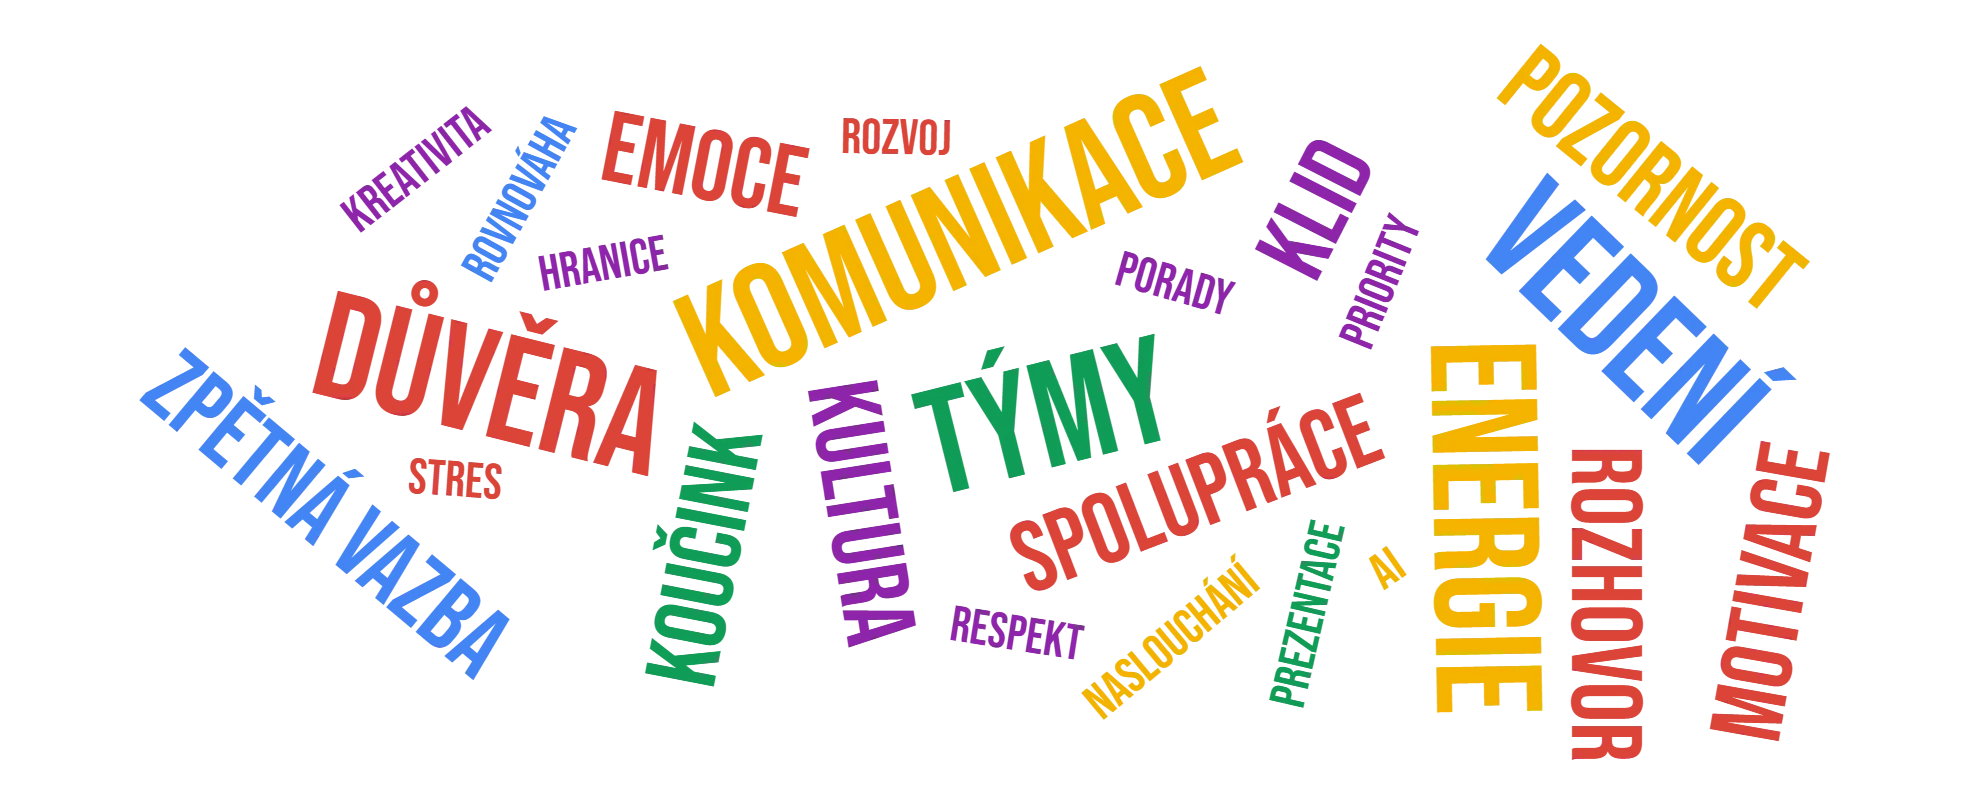
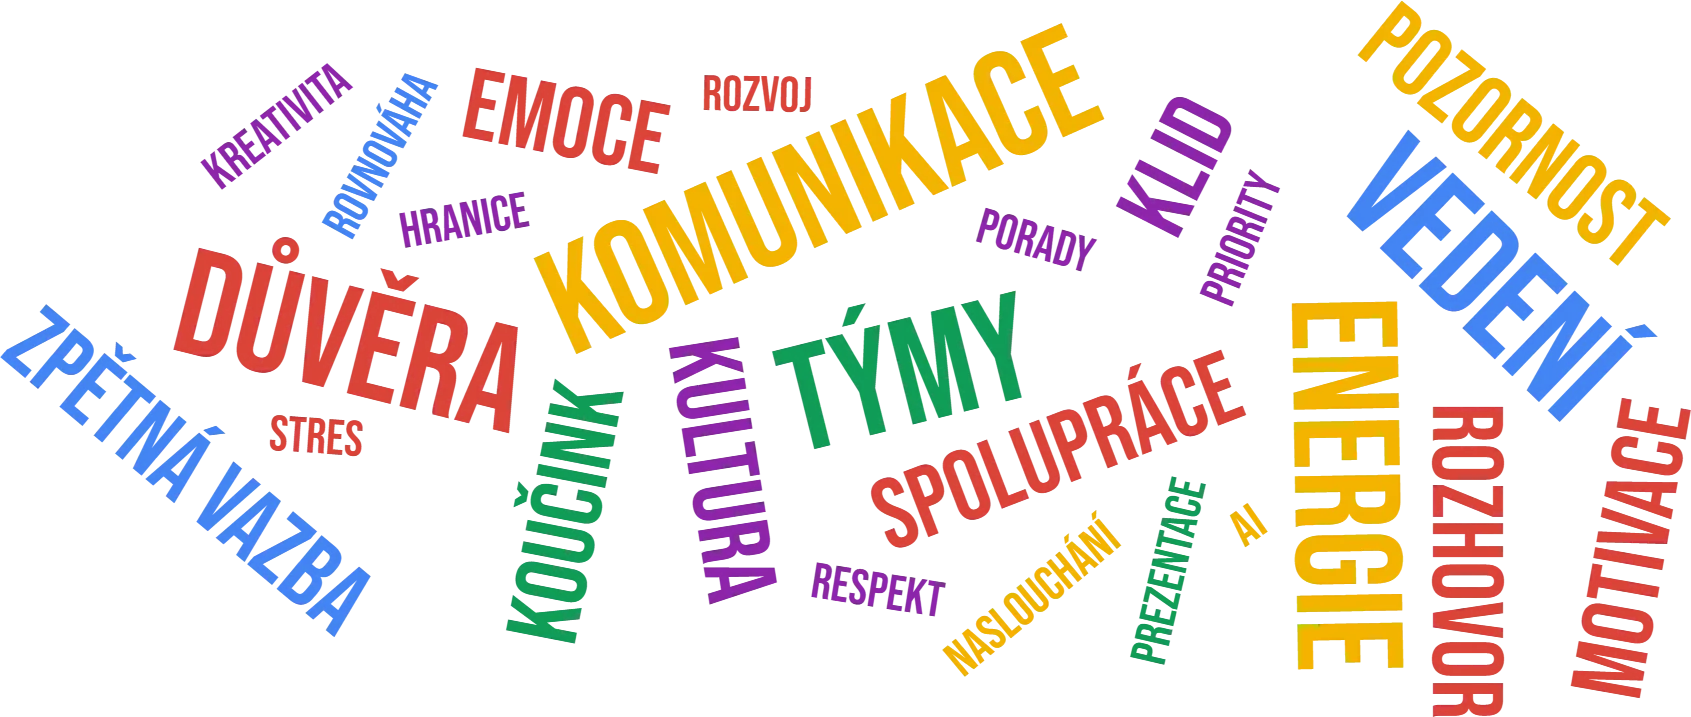
Tréninky: mrak slov nahoře, Forma dodání s fotkou, grafika procesu a symbol technologií
- Odstraněna poznámka o AI u hero fotek (Tréninky, Koučink)
- Průhledný mrak slov místo první rezervace na fotku
- Úvodní text o zkušenostech před kartami témat
- Forma dodání jako samostatná sekce: fotka vlevo, text vpravo
- Příprava jako tok kroků s ikonami a šipkami (bez čísel)
- SVG symbol uprostřed sekce Technologie
- Odstraněny zbývající rezervace na fotky a nepoužité styly

Changed region(s): [[0.0, 0.0, 1.0, 1.0]]

diff --git a/treninky.html b/treninky.html
@@ -32,23 +32,18 @@
       <p class="lead">Pracuji s lidmi a týmy na tom, jak spolu komunikují, spolupracují a zvládají každodenní tlak.</p>
     </div>
   </section>
-  <p class="wrap hero-note">Ilustrační fotografie vytvořená pomocí AI.</p>
 
-  <section class="hero-after">
+  <section class="hero-after" aria-hidden="true">
     <div class="wrap">
-      <figure class="shot">
-        <div class="shot-frame">
-          <span aria-hidden="true">Fotka bude doplněna</span>
-          <img src="assets/img/trenink-1-prezentace.jpg" alt="Aleš Demjan vede trénink před skupinou." width="1600" height="1067" loading="lazy" onerror="this.remove()">
-        </div>
-        <figcaption>Ilustrační fotografie vytvořená pomocí AI.</figcaption>
-      </figure>
+      <img class="cloud-img" src="assets/img/mrak-slov.webp" alt="" width="1691" height="717">
     </div>
   </section>
 
   <section id="temata" class="alt">
     <div class="wrap">
       <h2>Čemu se věnuji</h2>
+      <p>První školení jsem vedl zhruba před 20 lety. Od té doby mám za sebou přes 500 tréninkových dní – od technologických přes soft skills až po procesní. Baví mě všechny, každý má svou energii a smysl. Rád trénink připravuji i vedu před lidmi.</p>
+      <p>Níže jsou oblasti a témata, ve kterých jsem zvyklý pracovat. Kombinovat je lze jakkoli. Nejraději tvořím obsah přímo s účastníky na místě.</p>
       <p class="hint">Najeďte na kartu myší nebo na ni klepněte a uvidíte, co téma obsahuje.</p>
 
       <!-- TEMATA:START – obsah se generuje z data/temata.json (node tools/build-temata.mjs), ručně neupravovat -->
@@ -453,13 +448,7 @@
     </div>
   </section>
 
-  <section aria-hidden="true">
-    <div class="wrap">
-      <img class="cloud-img" src="assets/img/mrak-slov.webp" alt="" width="1976" height="800" loading="lazy">
-    </div>
-  </section>
-
-  <section id="formy" class="alt">
+  <section id="formy">
     <div class="wrap">
       <h2>Jak může spolupráce vypadat</h2>
       <p>Rozsah i obsah volím podle toho, co potřebujete. Nejde o hotový balíček, ale o trénink postavený na míru.</p>
@@ -486,20 +475,19 @@
           <p>Postupná práce se skupinou nebo týmem. Může proběhnout vcelku, nebo ve více samostatných termínech s odstupem, aby si lidé mezi nimi mohli věci vyzkoušet v praxi a pak se k nim vrátit.</p>
         </li>
       </ul>
+    </div>
+  </section>
 
-      <h2 class="note-title">Forma dodání</h2>
-      <div class="note">
+  <section id="dodani" class="alt">
+    <div class="wrap split">
+      <figure class="split-img">
+        <img src="assets/img/trenink-online.jpg" alt="Aleš Demjan vede online trénink od svého stolu." width="1200" height="675" loading="lazy">
+      </figure>
+      <div>
+        <h2>Forma dodání</h2>
         <h3>Prezenčně nebo online</h3>
         <p>Obě varianty jsou možné. Měkká témata, jako je komunikace, emoce, asertivita nebo neverbální komunikace, doporučuji naživo v učebně, protože online se řeč těla ztrácí. Praktická témata, například AI, Office nebo time management, fungují online dobře.</p>
       </div>
-
-      <figure class="shot wide formats-shot">
-        <div class="shot-frame">
-          <span aria-hidden="true">Fotka bude doplněna</span>
-          <img src="assets/img/trenink-2-poznamky.jpg" alt="Účastníci tréninku si zapisují poznámky." width="1600" height="1067" loading="lazy" onerror="this.remove()">
-        </div>
-        <figcaption>Ilustrační fotografie vytvořená pomocí AI.</figcaption>
-      </figure>
     </div>
   </section>
 
@@ -507,28 +495,33 @@
     <div class="wrap">
       <h2>Příprava</h2>
       <p>Každému tréninku předchází rozhovor, ve kterém si vše ujasníme:</p>
-      <div class="steps five">
-        <div class="step">
+      <ol class="flow">
+        <li class="flow-step">
+          <span class="flow-icon" aria-hidden="true"><svg viewBox="0 0 24 24"><circle cx="12" cy="12" r="8.5"/><circle cx="12" cy="12" r="4.5"/><circle cx="12" cy="12" r="1"/></svg></span>
           <h3>Cíl</h3>
           <p>Čeho má trénink dosáhnout.</p>
-        </div>
-        <div class="step">
+        </li>
+        <li class="flow-step">
+          <span class="flow-icon" aria-hidden="true"><svg viewBox="0 0 24 24"><circle cx="9" cy="8" r="3"/><path d="M3 19c0-3.3 2.7-5 6-5s6 1.7 6 5"/><circle cx="17" cy="9" r="2.3"/><path d="M16.5 13.6c2.6.1 4.5 1.6 4.5 4.4"/></svg></span>
           <h3>Cílová skupina</h3>
           <p>Kdo se ho zúčastní a v jaké je situaci.</p>
-        </div>
-        <div class="step">
+        </li>
+        <li class="flow-step">
+          <span class="flow-icon" aria-hidden="true"><svg viewBox="0 0 24 24"><circle cx="10.5" cy="10.5" r="6"/><path d="M15 15l5 5"/></svg></span>
           <h3>Skutečné potřeby</h3>
           <p>Co lidé opravdu řeší.</p>
-        </div>
-        <div class="step">
+        </li>
+        <li class="flow-step">
+          <span class="flow-icon" aria-hidden="true"><svg viewBox="0 0 24 24"><rect x="5" y="3" width="14" height="18" rx="1.5"/><path d="M8.5 8h7M8.5 12h7M8.5 16h4.5"/></svg></span>
           <h3>Obsah</h3>
           <p>Podle výsledků předchozích kroků sestavím program na míru.</p>
-        </div>
-        <div class="step">
+        </li>
+        <li class="flow-step">
+          <span class="flow-icon" aria-hidden="true"><svg viewBox="0 0 24 24"><path d="M4 20h16M7.5 20v-5M12 20v-8M16.5 20v-12"/></svg></span>
           <h3>Měření a vyhodnocení</h3>
           <p>Feedback po akci a po delší době.</p>
-        </div>
-      </div>
+        </li>
+      </ol>
     </div>
   </section>
 
@@ -536,7 +529,26 @@
     <div class="wrap">
       <h2>Technologie nám pomáhají</h2>
       <p>Podle potřeby a podle typu tréninku využívám technologie, které práci s lidmi zjednoduší a udělají ji přehlednější. Nejsou cílem, jsou prostředkem.</p>
-      <div class="grid two">
+      <div class="tech">
+        <svg class="tech-symbol" viewBox="0 0 180 180" aria-hidden="true">
+          <circle class="ts-orbit" cx="90" cy="90" r="74"/>
+          <circle class="ts-dots" cx="90" cy="90" r="58"/>
+          <circle class="ts-dot" cx="90" cy="16" r="2.2"/><circle class="ts-dot" cx="90" cy="164" r="2.2"/>
+          <circle class="ts-dot" cx="16" cy="90" r="2.2"/><circle class="ts-dot" cx="164" cy="90" r="2.2"/>
+          <path class="ts-link" d="M76 76L40 40M104 76l36-36M76 104l-36 36M104 104l36 36"/>
+          <circle class="ts-node" cx="30" cy="30" r="19"/><circle class="ts-node" cx="150" cy="30" r="19"/>
+          <circle class="ts-node" cx="30" cy="150" r="19"/><circle class="ts-node" cx="150" cy="150" r="19"/>
+          <circle class="ts-joint" cx="43.5" cy="43.5" r="2.6"/><circle class="ts-joint" cx="136.5" cy="43.5" r="2.6"/>
+          <circle class="ts-joint" cx="43.5" cy="136.5" r="2.6"/><circle class="ts-joint" cx="136.5" cy="136.5" r="2.6"/>
+          <circle class="ts-center" cx="90" cy="90" r="20"/>
+          <g class="ts-icon">
+            <circle cx="90" cy="84.5" r="5"/><path d="M80.5 101c0-6 4.3-9.5 9.5-9.5s9.5 3.5 9.5 9.5"/>
+            <rect x="21" y="22.5" width="18" height="15" rx="1.5"/><path d="M21 27h18M24.5 31.5h9M24.5 34.5h6"/>
+            <path d="M143 22.5h14a1.5 1.5 0 0 1 1.5 1.5v8.5a1.5 1.5 0 0 1-1.5 1.5h-9.5l-3.5 3.5v-3.5h-1a1.5 1.5 0 0 1-1.5-1.5v-8.5a1.5 1.5 0 0 1 1.5-1.5zM146 27h8M146 30.5h5"/>
+            <path d="M22 158h3v-3.5h-3zM26.5 158h3v-6h-3zM31 158h3v-8.5h-3zM35.5 158h3v-11h-3zM22.5 151l5.5-4.5 4.5 2 5.5-5"/>
+            <circle cx="150" cy="150" r="8"/><path d="M146.3 150.2l2.6 2.6 4.9-5"/>
+          </g>
+        </svg>
         <div class="card">
           <h3>Webové stránky na míru</h3>
           <p>Pro některé tréninky připravím vlastní webovou stránku, kde jsou pro účastníky pozvánka, organizační informace a materiály na jednom místě.</p>
@@ -557,19 +569,7 @@
     </div>
   </section>
 
-  <section>
-    <div class="wrap">
-      <figure class="shot wide">
-        <div class="shot-frame">
-          <span aria-hidden="true">Fotka bude doplněna</span>
-          <img src="assets/img/trenink-3-skupina.jpg" alt="Skupina účastníků tréninku se loučí s lektorem." width="1600" height="1067" loading="lazy" onerror="this.remove()">
-        </div>
-        <figcaption>Ilustrační fotografie vytvořená pomocí AI.</figcaption>
-      </figure>
-    </div>
-  </section>
-
-  <section id="kontakt" class="alt">
+  <section id="kontakt">
     <div class="wrap contact">
       <div>
         <h2>Pojďme to vyzkoušet</h2>

diff --git a/assets/style.css b/assets/style.css
@@ -79,7 +79,6 @@ p + p { margin-top: 10px; }
 .hero { padding: 52px 0 40px; }
 .hero.center { text-align: center; }
 .hero.center h1, .hero.center .lead { text-wrap: balance; }
-.hero.center .shot { text-align: left; }
 .tagline { font-weight: 200; font-size: clamp(24px, 3.2vw, 34px); line-height: 1.25; margin-top: 10px; }
 h2.center { text-align: center; }
 .sr-only { position: absolute; width: 1px; height: 1px; overflow: hidden; clip: rect(0 0 0 0); white-space: nowrap; }
@@ -102,7 +101,6 @@ h2.center { text-align: center; }
 .hero-photo.center p { margin-left: 0; margin-right: 0; }
 .hero-photo .lead { color: var(--ink); }
 .hero-photo .eyebrow { color: #2e4236; }
-.hero-note { font-size: 13px; color: var(--ink-soft); padding-top: 6px; text-align: right; }
 .hero-after { padding: 26px 0 40px; }
 .btn {
   display: inline-block; margin-top: 28px; padding: 15px 34px;
@@ -129,7 +127,6 @@ h2.center { text-align: center; }
 
 /* Kroky */
 .steps { margin-top: 20px; display: grid; grid-template-columns: repeat(4, 1fr); gap: 28px; counter-reset: s; }
-.steps.five { grid-template-columns: repeat(5, 1fr); gap: 24px; }
 .step { counter-increment: s; }
 .step::before {
   content: counter(s, decimal-leading-zero);
@@ -234,33 +231,57 @@ footer { padding: 24px 0; border-top: 1px solid var(--line); font-size: 14px; co
 .format .bar { height: 6px; background: var(--accent); margin-bottom: 10px; }
 .format h3 { margin-bottom: 2px; }
 .format p { color: var(--ink-soft); font-size: 17px; }
-.note-title { margin-top: 32px; }
-.note {
-  margin-top: 12px; padding: 18px 22px; border-left: 2px solid var(--accent);
-  background: var(--bg); max-width: 760px;
-}
-.note h3 { font-size: 19px; font-weight: 400; margin-bottom: 6px; }
-.note p { color: var(--ink-soft); font-size: 17px; }
 
-/* Tréninky: fotky */
-.shot { margin: 0 auto; }
-.shot { max-width: 840px; }
-.shot.wide { max-width: 720px; }
-.shot-frame {
-  position: relative; aspect-ratio: 3 / 2; background: var(--line);
+/* Tréninky: forma dodání (fotka vlevo, text vpravo) */
+.split { display: grid; grid-template-columns: 1fr 1fr; gap: 48px; align-items: center; }
+.split-img { margin: 0; }
+.split-img img { display: block; width: 100%; height: auto; }
+.split h3 { margin-top: 6px; }
+.split p { color: var(--ink-soft); font-size: 17px; }
+
+/* Tréninky: příprava jako tok kroků (ikony spojené šipkami) */
+.flow { list-style: none; margin-top: 28px; display: grid; grid-template-columns: repeat(5, 1fr); gap: 24px; }
+.flow-step { position: relative; }
+.flow-icon {
   display: flex; align-items: center; justify-content: center;
-  color: var(--ink-soft); font-size: 15px; overflow: hidden;
+  width: 56px; height: 56px; border-radius: 50%; margin-bottom: 14px;
+  border: 1px solid var(--accent); background: var(--bg-alt); color: var(--accent-dark);
 }
-.shot-frame img {
-  position: absolute; inset: 0; width: 100%; height: 100%; object-fit: cover; display: block;
+.flow-icon svg { width: 26px; height: 26px; fill: none; stroke: currentColor; stroke-width: 1.4; stroke-linecap: round; stroke-linejoin: round; }
+.flow-step::after, .flow-step::before { content: ""; position: absolute; }
+.flow-step::after { top: 28px; left: 66px; right: -14px; height: 1px; background: var(--accent); }
+.flow-step::before {
+  top: 24px; right: -14px; width: 8px; height: 8px;
+  border-top: 1px solid var(--accent); border-right: 1px solid var(--accent); transform: rotate(45deg);
 }
-.shot figcaption { margin-top: 10px; font-size: 13px; color: var(--ink-soft); }
-.hero .shot { margin-top: 32px; }
-.hero-after .shot { margin-top: 0; }
-.formats-shot { margin-top: 32px; }
+.flow-step:last-child::after, .flow-step:last-child::before { display: none; }
+.flow-step p { color: var(--ink-soft); font-size: 17px; }
+
+/* Tréninky: technologie – symbol uprostřed čtyř bloků */
+.tech { display: grid; grid-template-columns: 1fr 180px 1fr; gap: 28px 40px; margin-top: 20px; align-items: start; }
+.tech .card:nth-of-type(odd) { grid-column: 1; }
+.tech .card:nth-of-type(even) { grid-column: 3; }
+.tech-symbol { grid-column: 2; grid-row: 1 / span 2; align-self: center; width: 180px; height: 180px; }
+.tech-symbol circle, .tech-symbol path, .tech-symbol rect { fill: none; stroke-linecap: round; stroke-linejoin: round; }
+.tech-symbol .ts-orbit { stroke: var(--line); stroke-width: 1; }
+.tech-symbol .ts-dots { stroke: var(--accent); stroke-width: 1.2; stroke-dasharray: 0 6; opacity: .6; }
+.tech-symbol .ts-dot { fill: var(--line); stroke: none; }
+.tech-symbol .ts-link { stroke: var(--accent-dark); stroke-width: 1.2; }
+.tech-symbol .ts-node { fill: var(--bg); stroke: var(--accent); stroke-width: 1.2; }
+.tech-symbol .ts-joint { fill: var(--accent-dark); stroke: none; }
+.tech-symbol .ts-center { fill: var(--bg); stroke: var(--accent); stroke-width: 1.4; }
+.tech-symbol .ts-icon * { stroke: var(--accent-dark); stroke-width: 1.2; }
 
 @media (max-width: 900px) {
-  .steps, .steps.five { grid-template-columns: repeat(2, 1fr); }
+  .steps { grid-template-columns: repeat(2, 1fr); }
+  .flow { grid-template-columns: 1fr; gap: 22px; }
+  .flow-step { display: grid; grid-template-columns: 56px 1fr; grid-auto-rows: min-content; column-gap: 20px; min-height: 92px; }
+  .flow-icon { grid-row: 1 / span 2; margin-bottom: 0; }
+  .flow-step::after { top: 64px; bottom: -14px; left: 28px; right: auto; width: 1px; height: auto; }
+  .flow-step::before { top: auto; bottom: -14px; left: 24px; right: auto; transform: rotate(135deg); }
+  .tech { grid-template-columns: 1fr 140px 1fr; gap: 24px 28px; }
+  .tech-symbol { width: 140px; height: 140px; }
+  .split { gap: 32px; }
   .topics { grid-template-columns: repeat(2, 1fr); }
   .grid.two { gap: 28px 36px; }
   .hero-photo::before { background: rgba(250,248,245,.85); }
@@ -271,7 +292,6 @@ footer { padding: 24px 0; border-top: 1px solid var(--line); font-size: 14px; co
   section { padding: 32px 0; }
   .hero { padding: 36px 0 28px; }
   .hero-photo { padding: 48px 0 44px; }
-  .hero-note { text-align: left; }
   .hero-after { padding: 20px 0 32px; }
   .about { grid-template-columns: 1fr; gap: 24px; }
   .photo { max-width: 220px; }
@@ -281,13 +301,17 @@ footer { padding: 24px 0; border-top: 1px solid var(--line); font-size: 14px; co
   .paths, .grid.two { grid-template-columns: 1fr; }
   .steps-photo { grid-template-columns: 1fr; gap: 28px; }
   .steps-img img { height: auto; aspect-ratio: 3 / 2; }
+  .split { grid-template-columns: 1fr; gap: 24px; }
+  .tech { grid-template-columns: 1fr; gap: 24px; }
+  .tech .card:nth-of-type(n) { grid-column: 1; }
+  .tech-symbol { grid-column: 1; grid-row: auto; justify-self: center; }
   .path { padding: 24px 22px 20px; }
 }
 @media (max-width: 520px) {
   .wrap { padding: 0 20px; }
   .brand { font-size: 17px; letter-spacing: .02em; }
   nav a { margin-left: 14px; letter-spacing: .01em; }
-  .steps, .steps.five, .steps.two { grid-template-columns: 1fr; }
+  .steps, .steps.two { grid-template-columns: 1fr; }
   .contact { grid-template-columns: 1fr; gap: 24px; }
   .qr { text-align: left; }
   .qr img { margin: 0; }

diff --git a/koucink.html b/koucink.html
@@ -32,7 +32,6 @@
       <p class="lead">Změna – stres, nebo radost? Stres, pokud se jí obáváte. Radost, pokud ji překonáte. Každopádně je to nutnost, dnes více než kdy jindy.</p>
     </div>
   </section>
-  <p class="wrap hero-note">Ilustrační fotografie vytvořená pomocí AI.</p>
 
   <section id="koucovani" class="alt">
     <div class="wrap">
